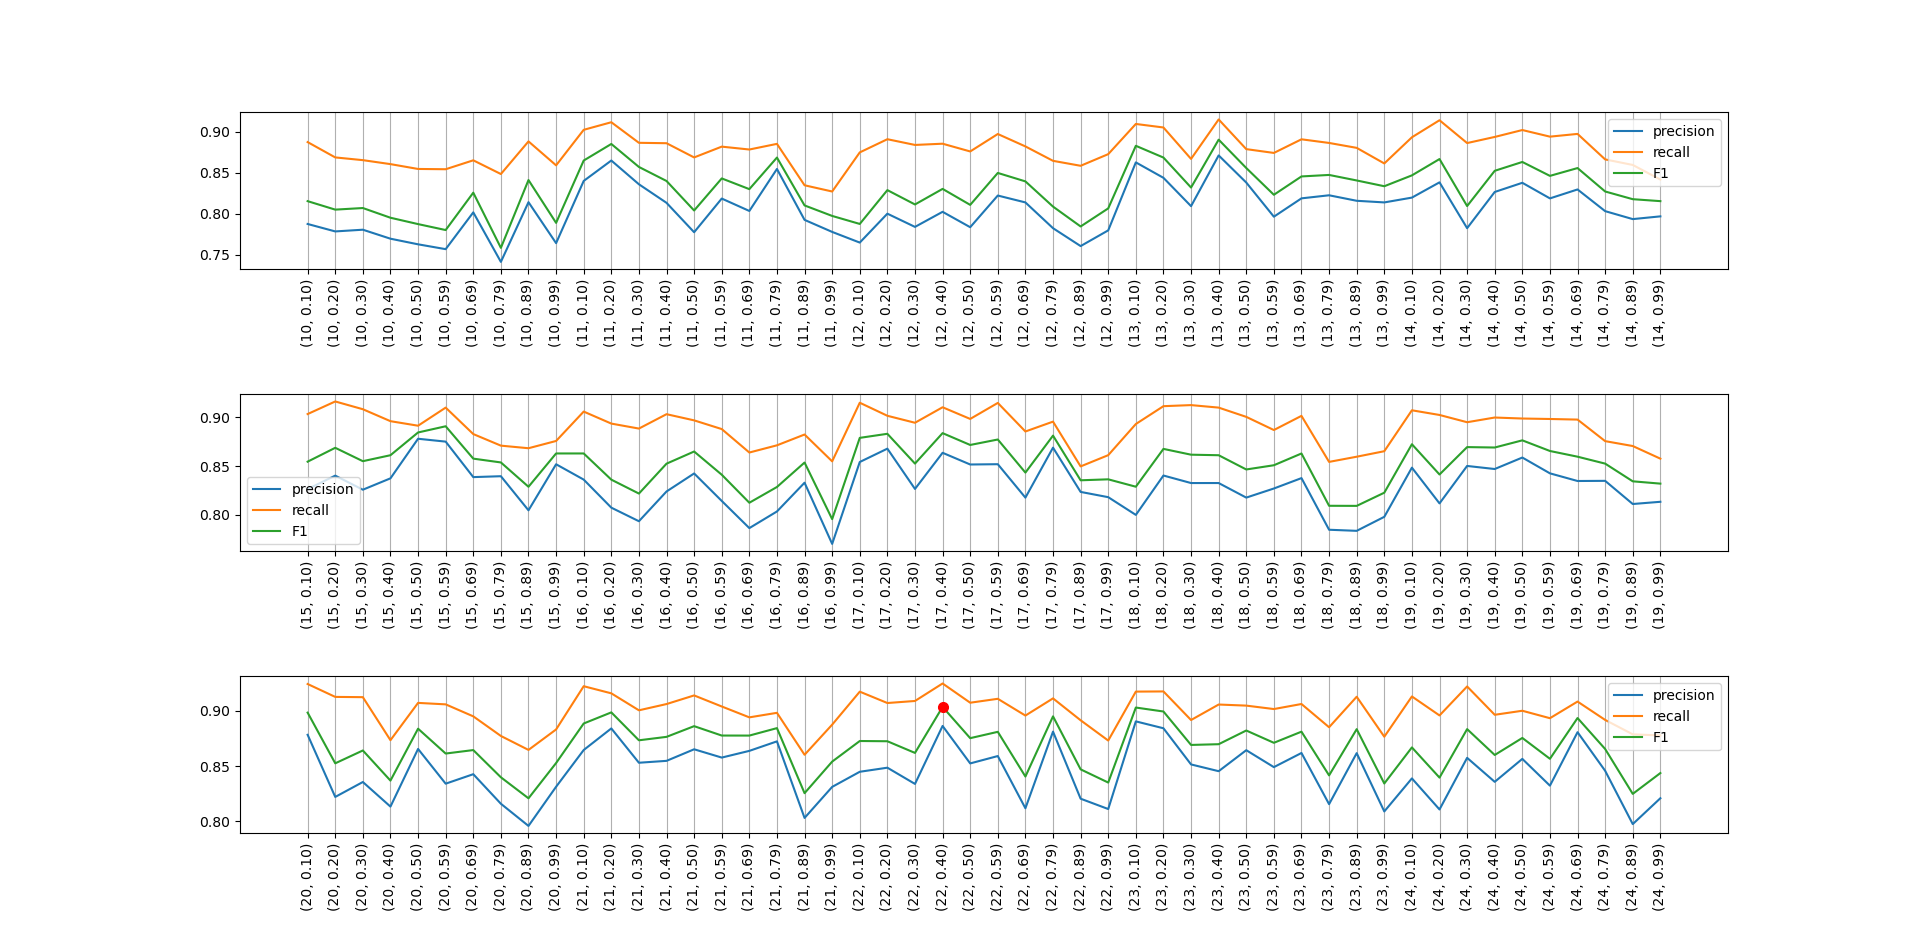
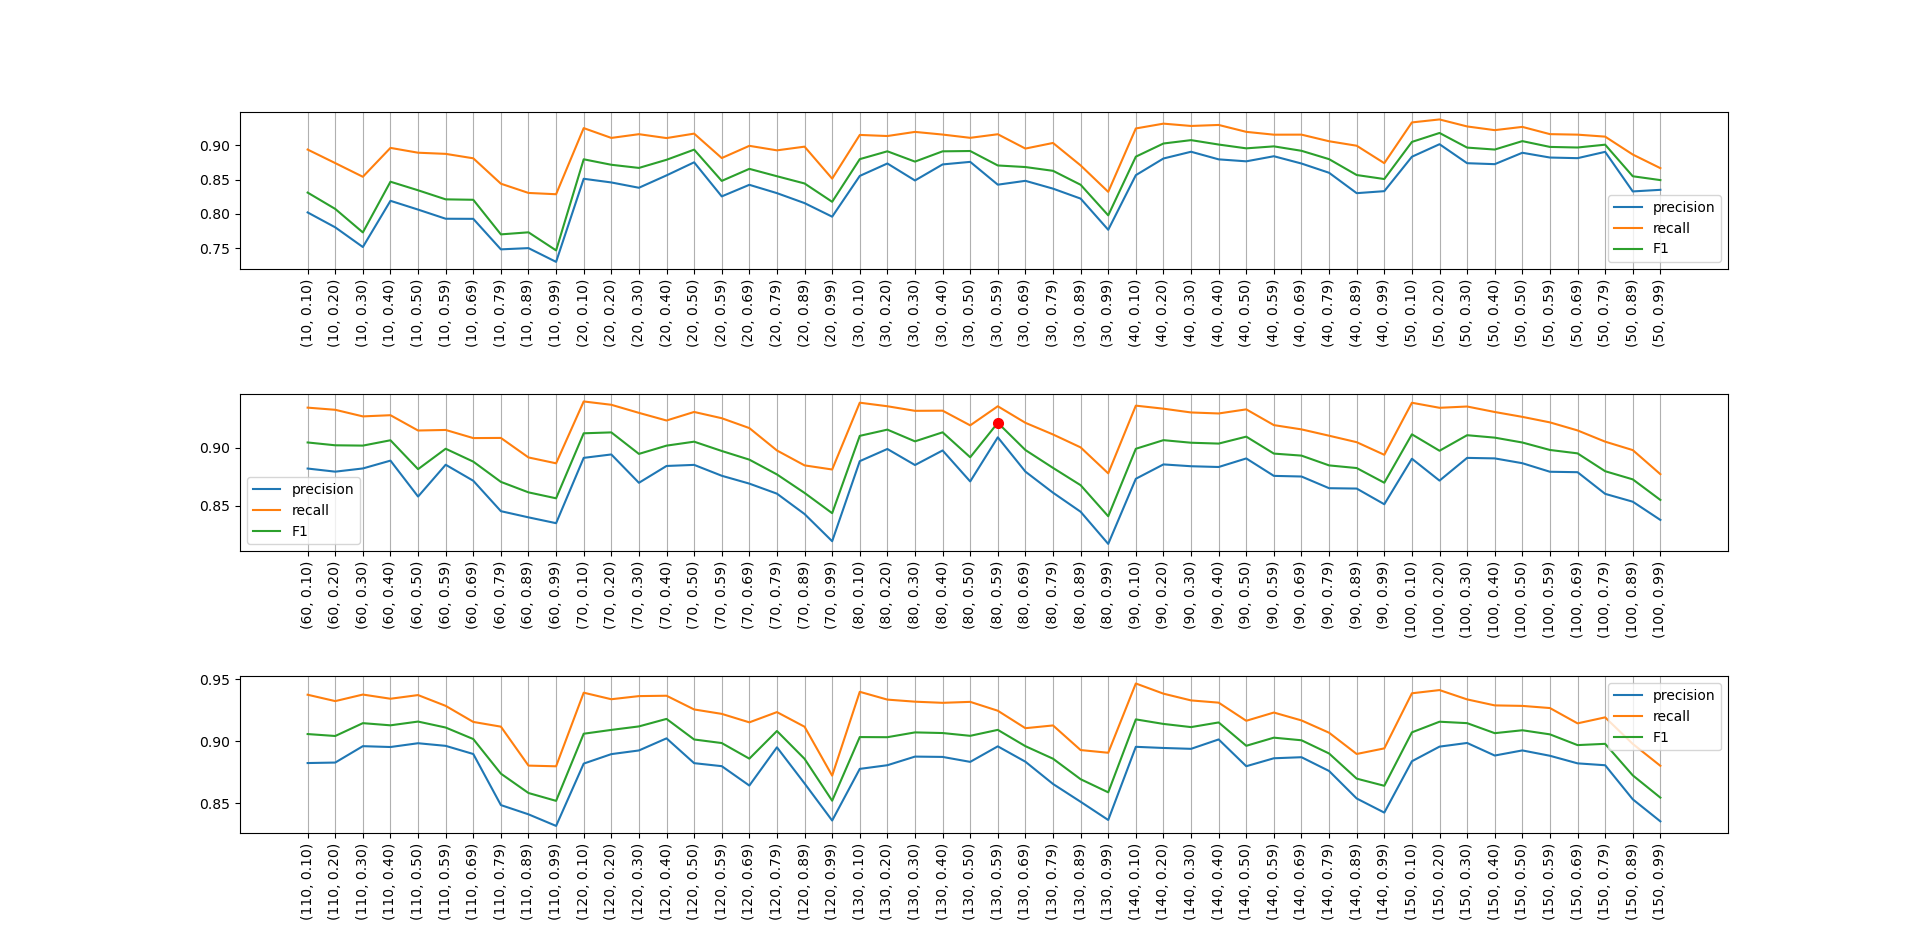
res added

diff --git a/Lecture1/rf.py b/Lecture1/rf.py
@@ -138,7 +138,7 @@ def parse_args():
 
 def gridSearch_rf(train_data, test_data):
     number_of_features = len(train_data[0, :])
-    num_of_trees_list = range(10, 25, 1)
+    num_of_trees_list = range(10, 160, 10)
     features_percent_list = np.linspace(0.1, 0.99, 10)
     precision = []
     recall = []
